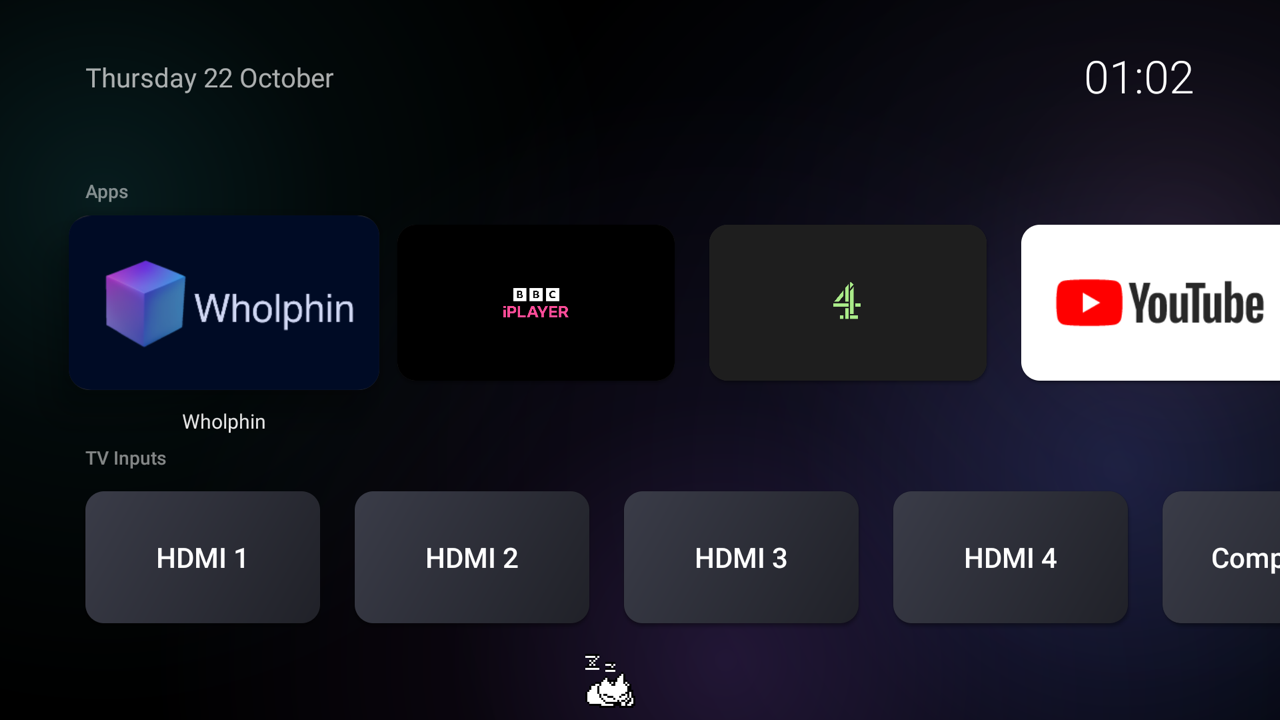
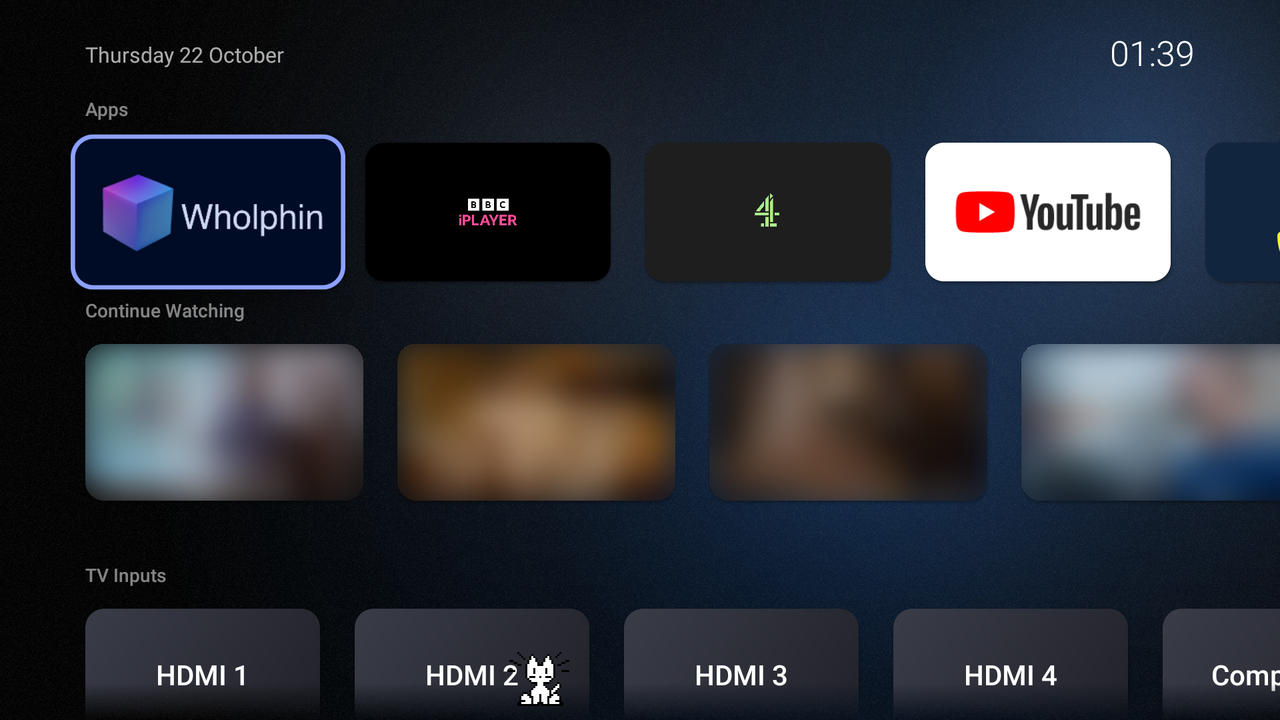
Update README screenshot to the current layout
Continue Watching thumbnails are blurred so no viewing history is shown.

diff --git a/README.md b/README.md
@@ -10,7 +10,7 @@ A clean, Apple TV-style home screen for Fire OS 7 TVs (built for the Fire TV 4-S
 - **A cat** ([oneko](https://github.com/adryd325/oneko.js)) wanders along the bottom, sits, yawns and naps.
 - **Home button** opens this screen instead of Amazon's. **Double-press Home** to stay on Amazon's.
 
-![The home screen on a Fire TV 4-Series](docs/screenshot.png)
+![The home screen on a Fire TV 4-Series (Continue Watching blurred)](docs/screenshot.png)
 
 **Full step-by-step install guide: [INSTALL.md](INSTALL.md).** The short version is below.
 
